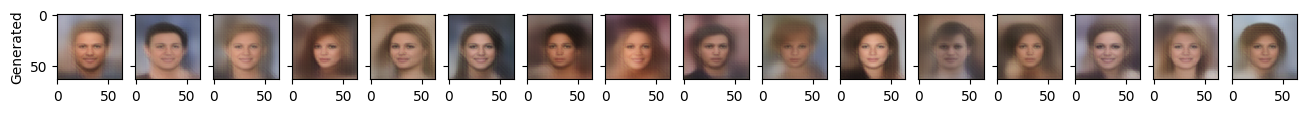
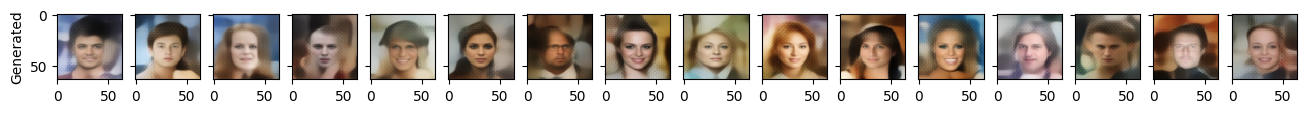
updated readme with new results

diff --git a/README.md b/README.md
@@ -15,21 +15,21 @@ Use `python train_vae_perceptual.py --help` to see all available flags.
 
 To train using all available GPUs use `--gpus -1`. See [here](https://pytorch-lightning.readthedocs.io/en/stable/advanced/multi_gpu.html#select-gpu-devices) for all possible options.
 ```bash
-python train_vae_perceptual.py --seed 100 --batch_size 32 --download True --epochs 20 --lr 0.0001 --gpus -1
+python train_vae_perceptual.py --seed 100 --batch_size 32 --download True --epochs 30 --lr 0.0001 --gpus -1
 ```
 
 To train on CPUs use `--gpus 0`
 ```bash
-python train_vae_perceptual.py --seed 100 --batch_size 32 --download True --epochs 20 --lr 0.0001 --gpus 0
+python train_vae_perceptual.py --seed 100 --batch_size 32 --download True --epochs 30 --lr 0.0001 --gpus 0
 ```
 
 ## Results
 
-Reconstructed images from the validation set after training for 2 epochs:
+Reconstructed images from the validation set after training for 30 epochs:
 
 ![Generated images](plots/reconstructed.png)
 
-Images generated by drawing random samples from a standard normal distribution and feeding them through the decoder:
+Images generated by drawing random samples from a standard normal distribution and feeding them through the decoder (after training for 30 epochs):
 
 ![Generated images](plots/generated.png)
 
